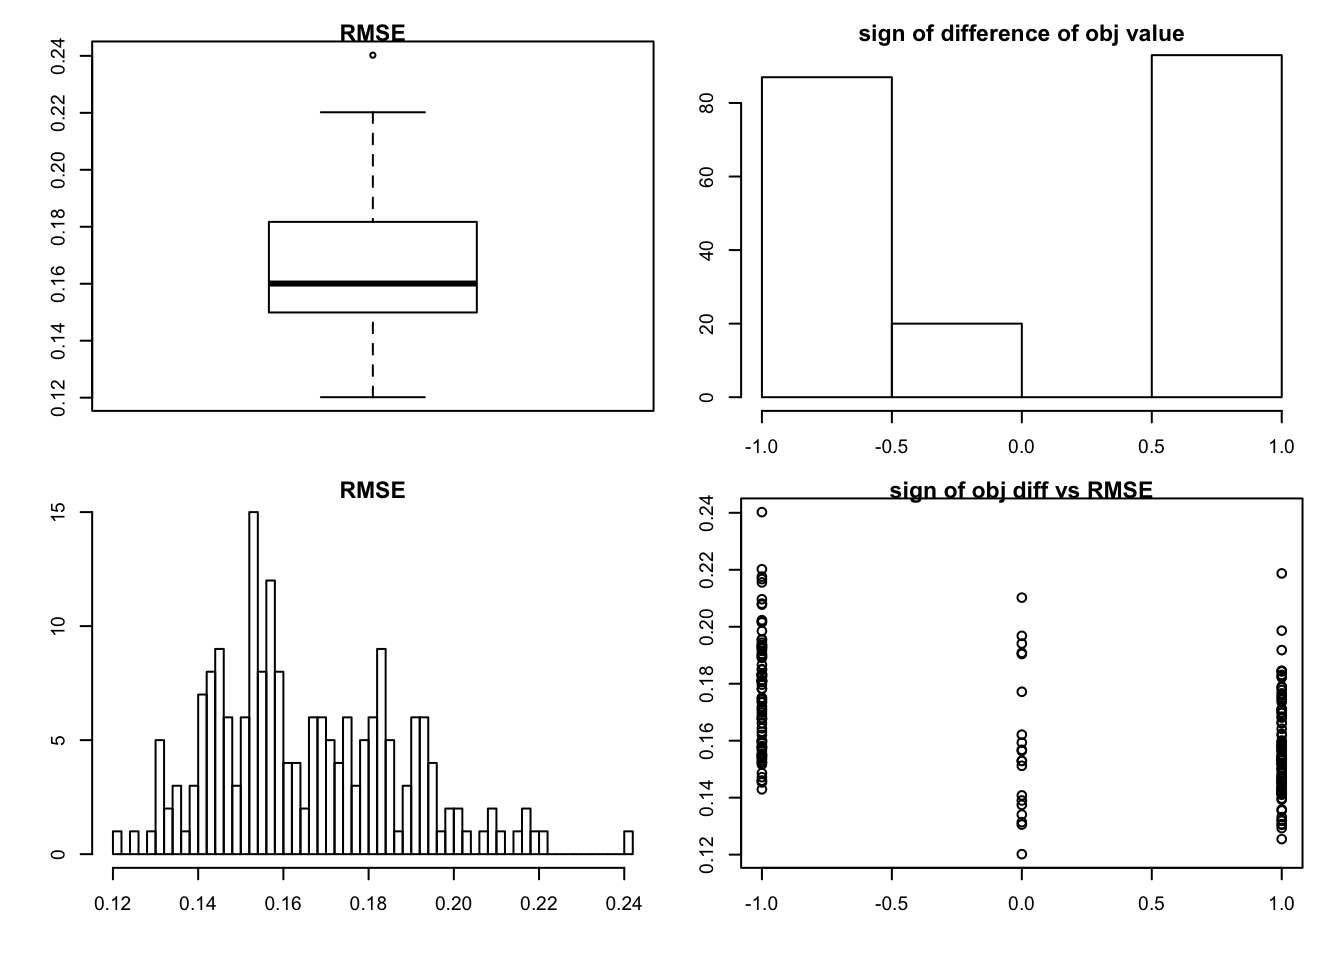
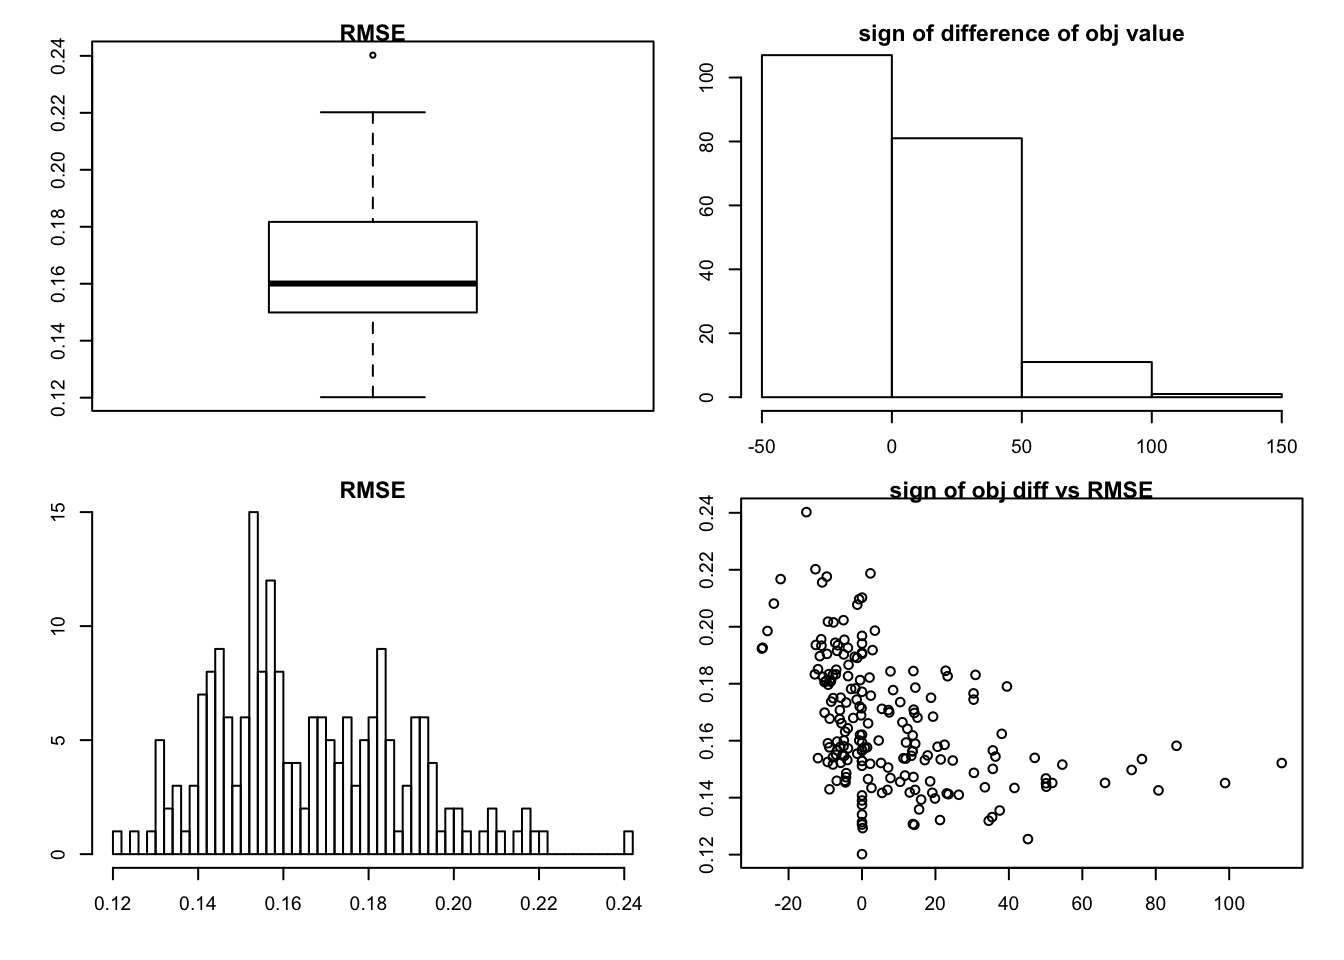
Build site.

diff --git a/docs/Objcheck_2.html b/docs/Objcheck_2.html
@@ -312,10 +312,10 @@ div.tocify {
 shared across the workflowr files. -->
 <!-- Update knitr chunk options -->
 <!-- Insert the date the file was last updated -->
-<p><strong>Last updated:</strong> 2017-06-19</p>
+<p><strong>Last updated:</strong> 2017-06-20</p>
 <!-- Insert the code version (Git commit SHA1) if Git repository exists and R
  package git2r is installed -->
-<p><strong>Code version:</strong> d9b7f10</p>
+<p><strong>Code version:</strong> 530f291</p>
 <!-- Add your analysis here -->
 <p>In this case, we would like to try the objective function with penalty term.</p>
 <p>I would like to modify the flash code in this document.</p>
@@ -371,10 +371,48 @@ plot(g2$obj_val_track,main = &quot;fdr method without penalized obj&quot;,type =
 <pre class="r"><code>set.seed(99)
 sim_rank0_old(K=1,N = 100, P=200, SF = 0.5, SL = 0.5, signal = 0,noise = 1)</code></pre>
 <p><img src="figure/Objcheck_2.Rmd/unnamed-chunk-5-1.png" width="672" style="display: block; margin: auto;" /></p>
+<pre><code>  [1] 0.375 0.020 0.000 0.005 0.000 0.000 0.005 0.005 0.005 0.005 0.005
+ [12] 0.005 0.000 0.000 0.005 0.005 0.000 0.000 0.005 0.005 0.005 0.005
+ [23] 0.000 0.000 0.005 0.000 0.005 0.000 0.005 0.000 0.005 0.005 0.000
+ [34] 0.000 0.005 0.005 0.005 0.005 0.000 0.005 0.005 0.000 0.005 0.005
+ [45] 0.000 0.005 0.005 0.000 0.005 0.005 0.000 0.000 0.005 0.000 0.005
+ [56] 0.005 0.000 0.005 0.000 0.000 0.005 0.000 0.000 0.005 0.000 0.005
+ [67] 0.000 0.000 0.005 0.000 0.005 0.005 0.005 0.000 0.005 0.000 0.000
+ [78] 0.000 0.005 0.000 0.000 0.000 0.005 0.005 0.005 0.005 0.005 0.005
+ [89] 0.005 0.005 0.005 0.005 0.005 0.000 0.000 0.005 0.005 0.000 0.000
+[100] 0.005 0.005 0.005 0.005 0.005 0.000 0.005 0.005 0.000 0.000 0.005
+[111] 0.005 0.005 0.000 0.000 0.000 0.005 0.005 0.000 0.000 0.005 0.005
+[122] 0.005 0.000 0.005 0.005 0.005 0.005 0.005 0.005 0.005 0.005 0.005
+[133] 0.005 0.005 0.005 0.000 0.005 0.005 0.005 0.000 0.000 0.005 0.000
+[144] 0.000 0.005 0.005 0.000 0.005 0.005 0.000 0.000 0.005 0.005 0.000
+[155] 0.000 0.005 0.000 0.000 0.000 0.000 0.005 0.000 0.005 0.000 0.000
+[166] 0.000 0.000 0.005 0.000 0.005 0.005 0.005 0.005 0.005 0.005 0.005
+[177] 0.000 0.005 0.005 0.005 0.005 0.000 0.000 0.000 0.000 0.005 0.005
+[188] 0.005 0.005 0.005 0.005 0.005 0.005 0.005 0.005 0.005 0.005 0.000
+[199] 0.000 0.000 0.005 0.000</code></pre>
 <p><em>fdr method with penalty</em></p>
 <pre class="r"><code>set.seed(99)
 sim_rank0(K=1,N = 100, P=200, SF = 0.5, SL = 0.5, signal = 0,noise = 1)</code></pre>
 <p><img src="figure/Objcheck_2.Rmd/unnamed-chunk-6-1.png" width="672" style="display: block; margin: auto;" /></p>
+<pre><code>  [1] 0.875 0.000 0.000 0.000 0.000 0.000 0.000 0.005 0.000 0.000 0.005
+ [12] 0.000 0.000 0.000 0.000 0.000 0.000 0.000 0.000 0.000 0.000 0.000
+ [23] 0.000 0.000 0.000 0.000 0.000 0.000 0.005 0.000 0.005 0.000 0.000
+ [34] 0.000 0.000 0.000 0.000 0.005 0.000 0.000 0.000 0.000 0.005 0.000
+ [45] 0.000 0.000 0.005 0.000 0.005 0.000 0.000 0.000 0.000 0.000 0.000
+ [56] 0.000 0.000 0.000 0.000 0.000 0.005 0.000 0.000 0.000 0.000 0.000
+ [67] 0.000 0.000 0.000 0.000 0.000 0.000 0.005 0.000 0.000 0.000 0.000
+ [78] 0.005 0.000 0.000 0.000 0.000 0.000 0.000 0.000 0.000 0.000 0.000
+ [89] 0.005 0.000 0.000 0.000 0.005 0.000 0.000 0.000 0.000 0.000 0.000
+[100] 0.005 0.000 0.000 0.000 0.000 0.000 0.000 0.000 0.000 0.000 0.000
+[111] 0.000 0.000 0.000 0.005 0.000 0.000 0.005 0.000 0.000 0.000 0.005
+[122] 0.000 0.000 0.000 0.000 0.005 0.000 0.000 0.000 0.000 0.000 0.000
+[133] 0.000 0.000 0.000 0.000 0.000 0.000 0.000 0.000 0.000 0.000 0.000
+[144] 0.000 0.000 0.005 0.000 0.000 0.000 0.000 0.000 0.000 0.000 0.000
+[155] 0.000 0.000 0.000 0.000 0.000 0.000 0.000 0.000 0.000 0.000 0.000
+[166] 0.000 0.000 0.000 0.000 0.005 0.000 0.000 0.000 0.000 0.005 0.000
+[177] 0.000 0.000 0.005 0.005 0.000 0.000 0.000 0.000 0.005 0.005 0.000
+[188] 0.000 0.000 0.000 0.000 0.000 0.000 0.000 0.000 0.000 0.000 0.000
+[199] 0.000 0.000 0.000 0.000</code></pre>
 <p>we can see the improvement that the proportion of P(estimated structure better than rank 0 structure) is much larger.</p>
 </div>
 <div id="case-2-rank-1-very-sparse-with-large-noise" class="section level4">
@@ -383,10 +421,48 @@ sim_rank0(K=1,N = 100, P=200, SF = 0.5, SL = 0.5, signal = 0,noise = 1)</code></
 <pre class="r"><code>set.seed(99)
 sim_rank0_old(K=1,N = 100, P=200, SF = 0.8, SL = 0.8, signal = 1,noise = 2)</code></pre>
 <p><img src="figure/Objcheck_2.Rmd/unnamed-chunk-7-1.png" width="672" style="display: block; margin: auto;" /></p>
+<pre><code>  [1] 0.100 0.465 0.000 0.000 0.005 0.005 0.000 0.005 0.005 0.000 0.005
+ [12] 0.005 0.000 0.005 0.000 0.005 0.000 0.000 0.005 0.000 0.005 0.000
+ [23] 0.005 0.005 0.005 0.000 0.000 0.005 0.000 0.005 0.000 0.000 0.000
+ [34] 0.000 0.000 0.005 0.005 0.000 0.000 0.000 0.000 0.000 0.005 0.000
+ [45] 0.000 0.005 0.005 0.005 0.005 0.005 0.000 0.000 0.000 0.000 0.000
+ [56] 0.000 0.005 0.005 0.005 0.005 0.000 0.000 0.005 0.000 0.005 0.000
+ [67] 0.000 0.005 0.005 0.000 0.005 0.000 0.005 0.000 0.005 0.000 0.000
+ [78] 0.000 0.000 0.005 0.005 0.000 0.005 0.005 0.005 0.000 0.005 0.005
+ [89] 0.005 0.000 0.000 0.000 0.005 0.000 0.005 0.000 0.000 0.000 0.000
+[100] 0.005 0.005 0.005 0.000 0.005 0.005 0.000 0.000 0.000 0.005 0.005
+[111] 0.000 0.000 0.000 0.005 0.000 0.005 0.000 0.005 0.000 0.000 0.000
+[122] 0.000 0.005 0.000 0.000 0.000 0.000 0.000 0.005 0.000 0.005 0.000
+[133] 0.005 0.000 0.000 0.000 0.005 0.005 0.005 0.005 0.000 0.000 0.000
+[144] 0.005 0.005 0.000 0.000 0.005 0.005 0.000 0.000 0.005 0.005 0.005
+[155] 0.000 0.005 0.005 0.000 0.000 0.005 0.000 0.005 0.005 0.000 0.000
+[166] 0.000 0.000 0.005 0.005 0.000 0.000 0.005 0.005 0.000 0.000 0.000
+[177] 0.000 0.005 0.005 0.000 0.000 0.000 0.000 0.005 0.000 0.000 0.005
+[188] 0.000 0.000 0.005 0.005 0.000 0.000 0.005 0.000 0.000 0.005 0.000
+[199] 0.000 0.000 0.000 0.005</code></pre>
 <p><em>fdr method with penalty</em></p>
 <pre class="r"><code>set.seed(99)
 sim_rank0(K=1,N = 100, P=200, SF = 0.8, SL = 0.8, signal = 1,noise = 2)</code></pre>
 <p><img src="figure/Objcheck_2.Rmd/unnamed-chunk-8-1.png" width="672" style="display: block; margin: auto;" /></p>
+<pre><code>  [1] 0.280 0.415 0.000 0.000 0.005 0.005 0.000 0.000 0.000 0.000 0.005
+ [12] 0.000 0.000 0.005 0.005 0.005 0.000 0.000 0.000 0.000 0.000 0.000
+ [23] 0.005 0.005 0.005 0.000 0.000 0.005 0.000 0.005 0.000 0.000 0.005
+ [34] 0.005 0.000 0.005 0.005 0.000 0.000 0.000 0.000 0.000 0.005 0.000
+ [45] 0.000 0.000 0.005 0.005 0.000 0.005 0.000 0.000 0.000 0.000 0.000
+ [56] 0.000 0.000 0.000 0.005 0.005 0.000 0.000 0.000 0.000 0.005 0.000
+ [67] 0.000 0.000 0.000 0.000 0.000 0.000 0.005 0.000 0.005 0.005 0.000
+ [78] 0.000 0.000 0.000 0.005 0.000 0.000 0.000 0.000 0.000 0.000 0.005
+ [89] 0.000 0.000 0.000 0.005 0.000 0.000 0.005 0.005 0.000 0.005 0.000
+[100] 0.005 0.005 0.000 0.000 0.005 0.005 0.000 0.005 0.000 0.005 0.000
+[111] 0.000 0.000 0.000 0.005 0.000 0.000 0.000 0.005 0.000 0.000 0.000
+[122] 0.000 0.000 0.000 0.000 0.000 0.000 0.005 0.000 0.000 0.005 0.000
+[133] 0.000 0.000 0.000 0.000 0.000 0.005 0.005 0.000 0.000 0.000 0.000
+[144] 0.000 0.000 0.005 0.000 0.005 0.000 0.000 0.005 0.000 0.000 0.005
+[155] 0.000 0.005 0.005 0.000 0.000 0.005 0.000 0.000 0.000 0.000 0.000
+[166] 0.000 0.000 0.000 0.000 0.000 0.000 0.000 0.005 0.000 0.000 0.000
+[177] 0.000 0.005 0.005 0.000 0.000 0.000 0.000 0.005 0.000 0.000 0.000
+[188] 0.005 0.005 0.000 0.005 0.000 0.000 0.005 0.000 0.005 0.005 0.000
+[199] 0.000 0.000 0.000 0.005</code></pre>
 <p>we can see that the results are improved since the proportion of P(estimated structure better than rank 0 structure) is much larger.</p>
 </div>
 </div>
@@ -405,22 +481,22 @@ attached base packages:
 [1] stats     graphics  grDevices utils     datasets  methods   base     
 
 other attached packages:
-[1] ashr_2.1-21     workflowr_0.4.0 rmarkdown_1.3  
+[1] workflowr_0.4.0 rmarkdown_1.3  
 
 loaded via a namespace (and not attached):
- [1] Rcpp_0.12.11      git2r_0.18.0      plyr_1.8.4       
- [4] iterators_1.0.8   tools_3.3.0       digest_0.6.12    
- [7] evaluate_0.10     tibble_1.2        gtable_0.2.0     
-[10] lattice_0.20-34   Matrix_1.2-8      foreach_1.4.3    
-[13] rstudioapi_0.6    yaml_2.1.14       parallel_3.3.0   
-[16] stringr_1.2.0     knitr_1.15.1      REBayes_0.73     
-[19] rprojroot_1.2     grid_3.3.0        irlba_2.1.2      
-[22] ggplot2_2.2.1     flashr_0.1.1      magrittr_1.5     
-[25] backports_1.0.5   scales_0.4.1      codetools_0.2-15 
-[28] htmltools_0.3.5   MASS_7.3-45       assertthat_0.2.0 
-[31] colorspace_1.3-2  stringi_1.1.2     Rmosek_7.1.2     
-[34] lazyeval_0.2.0    pscl_1.4.9        doParallel_1.0.10
-[37] munsell_0.4.3     truncnorm_1.0-7   SQUAREM_2016.8-2 </code></pre>
+ [1] Rcpp_0.12.11      knitr_1.15.1      magrittr_1.5     
+ [4] REBayes_0.73      MASS_7.3-45       munsell_0.4.3    
+ [7] doParallel_1.0.10 pscl_1.4.9        colorspace_1.3-2 
+[10] SQUAREM_2016.8-2  lattice_0.20-34   foreach_1.4.3    
+[13] plyr_1.8.4        flashr_0.1.1      ashr_2.1-21      
+[16] stringr_1.2.0     tools_3.3.0       parallel_3.3.0   
+[19] grid_3.3.0        gtable_0.2.0      irlba_2.1.2      
+[22] git2r_0.18.0      htmltools_0.3.5   iterators_1.0.8  
+[25] lazyeval_0.2.0    assertthat_0.2.0  yaml_2.1.14      
+[28] rprojroot_1.2     digest_0.6.12     tibble_1.2       
+[31] Matrix_1.2-8      ggplot2_2.2.1     codetools_0.2-15 
+[34] evaluate_0.10     stringi_1.1.2     scales_0.4.1     
+[37] Rmosek_7.1.2      backports_1.0.5   truncnorm_1.0-7  </code></pre>
 </div>
 
 <hr>
